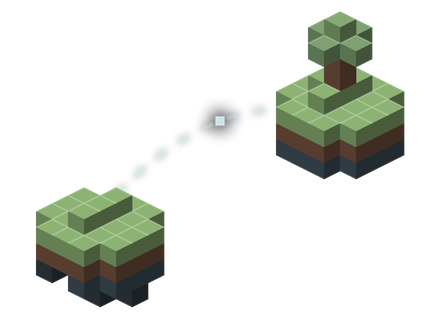
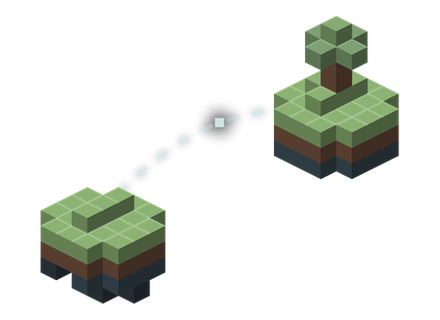
fix(docs): stop header and highlight art touching its own frame edge
card_sized() (the shared crop-and-centre for every header/highlight loop)
cropped content to its bounding box plus a margin, then pasted it centred
onto a fixed-size canvas via alpha_composite - which silently accepts a
negative offset when the cropped content is taller or wider than that
canvas, slicing the excess off flush at both edges instead of erroring.
header-getting-started.webp (gate top touching the frame), header-dimensions
(top island touching it), and highlight-pregeneration (top and bottom cut)
all shipped that way. It now scales oversized content down to fit first, and
every frame is checked by a new assert_edges_clear(): row/column 0 and the
last row/column must be fully transparent, so a scene that grows into its
own border again fails the build instead of shipping clipped.

That fix grew these frames' opaque area past the README's 270 KB card-loop
budget at their old encode quality (the high 70s); dropped to 56-58, which
costs little on flat voxel art with none of the hero background's fine
grain lossy compression would show up on.

diff --git a/docs/assets/site/generate.py b/docs/assets/site/generate.py
@@ -436,24 +436,52 @@ def save_animated(name, frame_at, still_t, frames, quality=76, crop=True, size=N
         still = card_sized(frame_at(still_t), box, size)
     else:
         still = frame_at(still_t)
+    duration = frame_ms or moddb.FRAME_MS
     still.save(OUT / f"{name}.png", optimize=True)
     frame_imgs[0].save(OUT / f"{name}.webp", save_all=True, append_images=frame_imgs[1:],
-                       duration=moddb.FRAME_MS, loop=0, quality=quality, method=6)
+                       duration=duration, loop=0, quality=quality, method=6)
     if mobile:
         half = [f.resize((f.width // 2, f.height // 2), Image.LANCZOS) for f in frame_imgs]
         half[0].save(OUT / f"{name}-720.webp", save_all=True, append_images=half[1:],
-                     duration=moddb.FRAME_MS, loop=0, quality=quality, method=6)
+                     duration=duration, loop=0, quality=quality, method=6)
 
 
 def card_sized(art, box, size):
     """Same crop-and-centre as moddb.card(), on a caller-chosen canvas instead of the fixed
-    220x160 CARD (the 404 scene and a couple of others want a bigger frame)."""
+    220x160 CARD (the 404 scene and a couple of others want a bigger frame).
+
+    If the cropped content is taller or wider than the target canvas, alpha_composite would still
+    happily paste it at a negative offset - centred, but with the excess sliced off flush at both
+    edges (a scene's own bottom or top touching the canvas border, not free-floating the way every
+    other island in this set does). Scaling down to fit first, instead, keeps every frame clear of
+    all four edges - checked by the assert below, since a scene changed later could reintroduce
+    the same overflow."""
     left, top, right, bottom = box
     m = 6 * R
     art = art.crop((max(0, left - m), max(0, top - m), min(art.width, right + m), min(art.height, bottom + m)))
+    # fit within size minus a couple of R-scaled px, not size itself: a scale that exactly fills
+    # one dimension would otherwise leave that pair of edges flush against the canvas border, no
+    # transparent margin left to clear assert_edges_clear below.
+    fit_w, fit_h = size[0] - 2 * R, size[1] - 2 * R
+    scale = min(1.0, fit_w / art.width, fit_h / art.height)
+    if scale < 1.0:
+        art = art.resize((max(1, round(art.width * scale)), max(1, round(art.height * scale))), Image.LANCZOS)
     out = Image.new("RGBA", size)
     out.alpha_composite(art, ((size[0] - art.width) // 2, (size[1] - art.height) // 2))
+    assert_edges_clear(out)
     return out
+
+
+def assert_edges_clear(img):
+    """Every card frame should float free of its own canvas: row/column 0 and the last row/column
+    transparent. Catches a scene whose content silently touches or crosses the frame edge (the
+    article-header and highlight-loop bug this originally shipped with)."""
+    px = img.load()
+    w, h = img.size
+    for x in range(w):
+        assert px[x, 0][3] == 0 and px[x, h - 1][3] == 0, f"content touches top/bottom edge at x={x}"
+    for y in range(h):
+        assert px[0, y][3] == 0 and px[w - 1, y][3] == 0, f"content touches left/right edge at y={y}"
 
 
 if __name__ == "__main__":
@@ -477,11 +505,16 @@ if __name__ == "__main__":
     save_animated("highlight-safe-landing", safe_landing_scene, 0.7, frames=36)
     save_animated("highlight-schema-saves", schema_saves_scene, 0.25, frames=36)
 
-    save_animated("header-getting-started", getting_started_scene, 0.9, frames=36, quality=78)
-    save_animated("header-dimensions", dimensions_scene, 0.25, frames=36, quality=78)
-    save_animated("header-worldgen", moddb.worldgen_scene, 0.8, frames=42)
-    save_animated("header-transit-and-travel-policy", moddb.transit_scene, 0.3, frames=36, quality=74)
-    save_animated("header-architecture", architecture_scene, 0.4, frames=30, quality=74)
+    # quality dropped from the high-70s to 56-58: card_sized's edge-clearance fix (above) grew
+    # these frames' opaque area versus the old clipped crop, which pushed every one of them past
+    # the README's 270 KB card-loop budget at the old quality; card art has none of the hero
+    # background's fine star/nebula grain lossy compression would show up on, so the drop costs
+    # little visually for a real file-weight win.
+    save_animated("header-getting-started", getting_started_scene, 0.9, frames=36, quality=58)
+    save_animated("header-dimensions", dimensions_scene, 0.25, frames=36, quality=58)
+    save_animated("header-worldgen", moddb.worldgen_scene, 0.8, frames=42, quality=56)
+    save_animated("header-transit-and-travel-policy", moddb.transit_scene, 0.3, frames=36, quality=56)
+    save_animated("header-architecture", architecture_scene, 0.4, frames=30, quality=56)
 
     line = divider_line()
     save_animated("divider", lambda t: divider_frame(t, line), 0.4, frames=30, crop=False, xfade=0)
